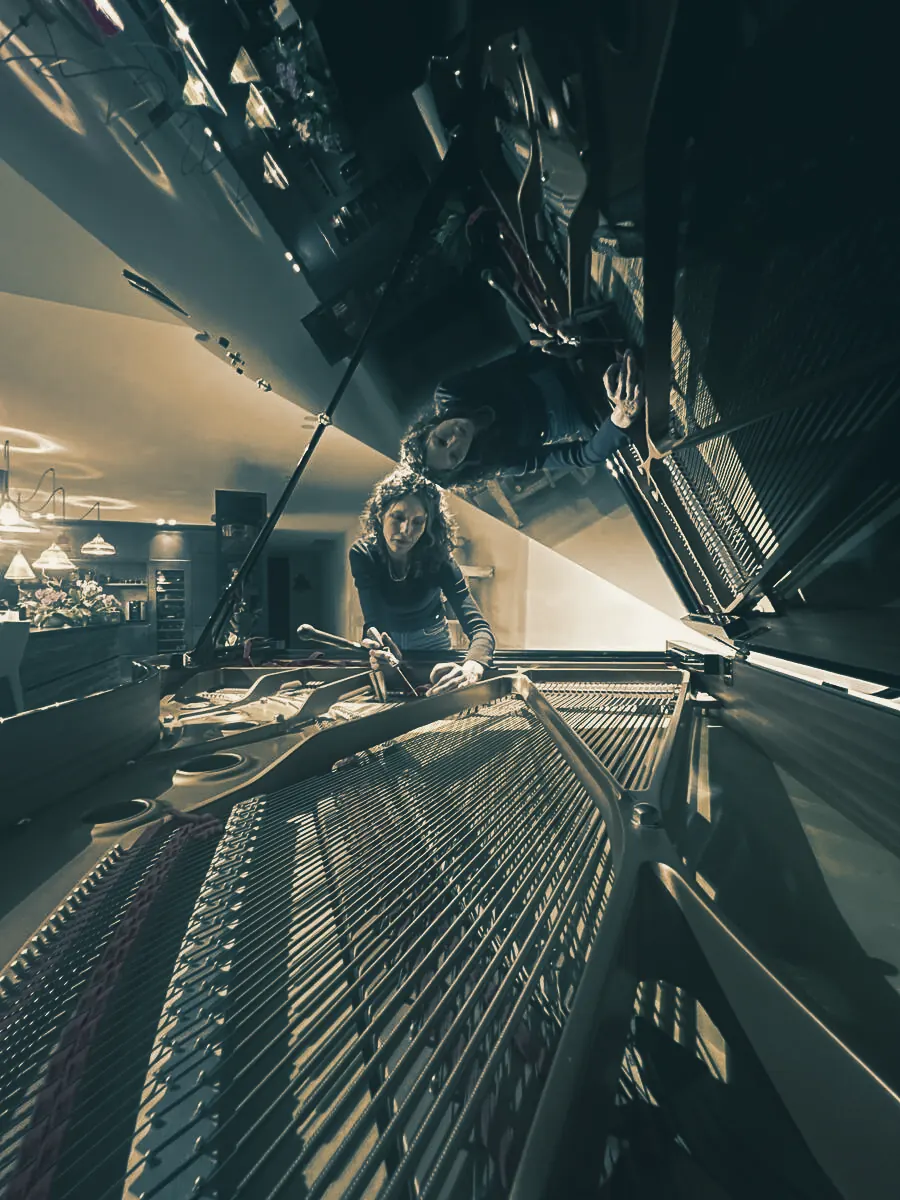
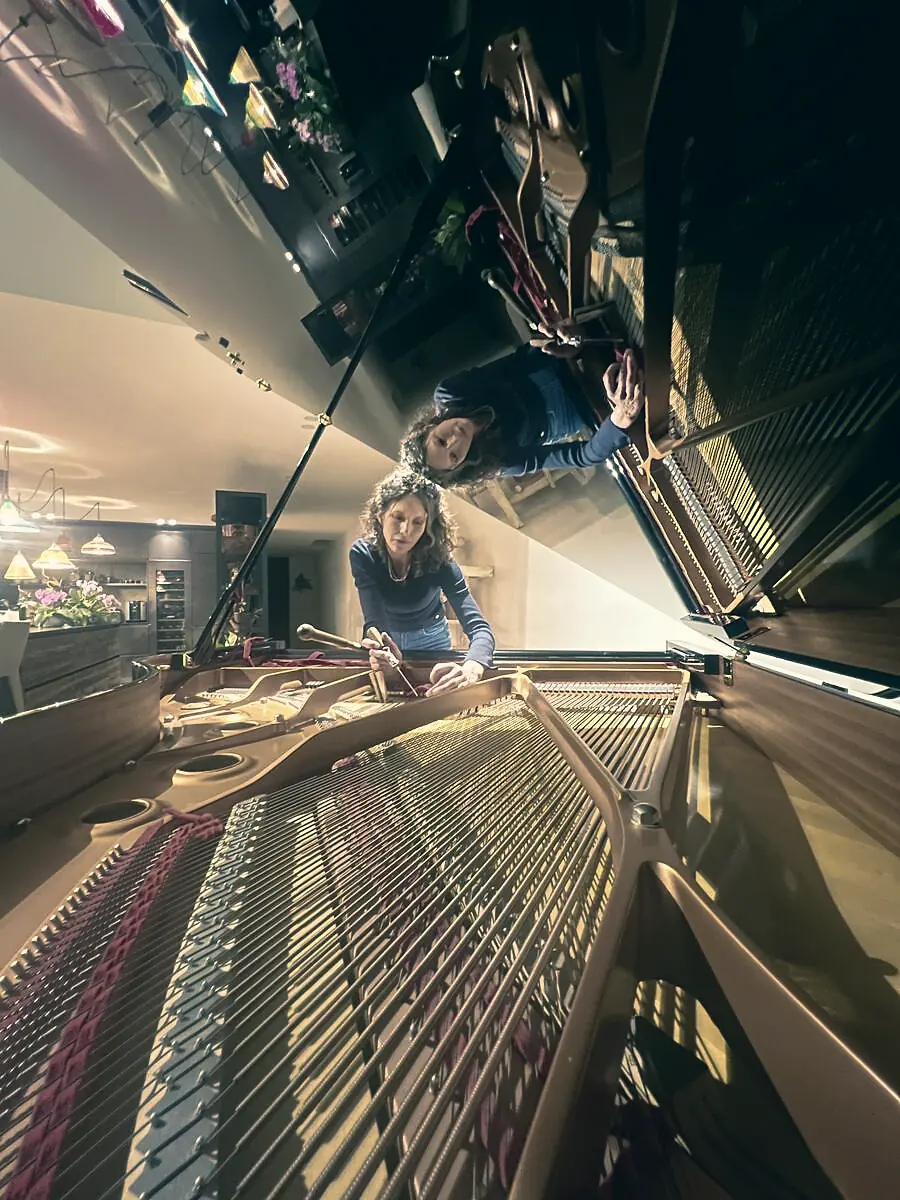
Photos plus claires et plus éclatantes (étalonnage v2) et voiles allégés, retour d'Alexandra du 20/11

diff --git a/assets/css/style.css b/assets/css/style.css
@@ -832,7 +832,8 @@ h1.surtitre { font-weight: 600; }
 .interlude--image { color: var(--sur-sombre); background: var(--nuit); min-height: 100vh; }
 .interlude__image { position: absolute; inset: 0; overflow: hidden; }
 .interlude__image img { width: 100%; height: 100%; object-fit: cover; will-change: transform; }
-.interlude__image::after { content: ""; position: absolute; inset: 0; background: radial-gradient(ellipse at center, rgba(24, 59, 66, .55), rgba(24, 59, 66, .78)); }
+/* 20/11 soir : voile allégé sur les bords (retour d'Alexandra « un peu sombre ») ; avant : .55 au centre, .78 sur les bords */
+.interlude__image::after { content: ""; position: absolute; inset: 0; background: radial-gradient(ellipse at center, rgba(24, 59, 66, .74) 0%, rgba(24, 59, 66, .58) 36%, rgba(24, 59, 66, .3) 100%); }
 
 /* =========================================================
    20/11 : TOUT le haut de page visible sans défiler (demande de Guillaume).
@@ -870,8 +871,9 @@ h1.surtitre { font-weight: 600; }
 .photo--plein::after {
   content: ""; position: absolute; inset: 0; pointer-events: none;
   background:
-    linear-gradient(90deg, rgba(24, 59, 66, .9) 0%, rgba(24, 59, 66, .66) 36%, rgba(24, 59, 66, .12) 68%, rgba(24, 59, 66, 0) 100%),
-    linear-gradient(0deg, rgba(24, 59, 66, .55) 0%, rgba(24, 59, 66, 0) 30%);
+    /* 20/11 soir : voile allégé (retour d'Alexandra « un peu sombre ») ; avant : .9 / .66 à 36 % / .12 à 68 % et .55 en bas */
+    linear-gradient(90deg, rgba(24, 59, 66, .86) 0%, rgba(24, 59, 66, .66) 36%, rgba(24, 59, 66, .4) 50%, rgba(24, 59, 66, .06) 68%, rgba(24, 59, 66, 0) 100%),
+    linear-gradient(0deg, rgba(24, 59, 66, .42) 0%, rgba(24, 59, 66, 0) 24%);
 }
 .hero--plein .hero__texte { position: relative; z-index: 1; }
 .hero--plein .surtitre, .hero--plein .chapo, .hero--plein .savoir-faire, .hero--plein .a-valider { color: var(--sur-sombre-doux); }
@@ -889,7 +891,8 @@ h1.surtitre { font-weight: 600; }
 }
 /* Essai plein écran, téléphone : le texte occupe toute la hauteur, le voile aussi */
 @media (max-width: 760px) {
-  .photo--plein::after { background: linear-gradient(0deg, rgba(24, 59, 66, .94) 0%, rgba(24, 59, 66, .78) 55%, rgba(24, 59, 66, .7) 100%); }
+  /* 20/11 soir : haut du voile allégé (avant : .78 à 55 % et .7 en haut) */
+  .photo--plein::after { background: linear-gradient(0deg, rgba(24, 59, 66, .92) 0%, rgba(24, 59, 66, .72) 52%, rgba(24, 59, 66, .48) 100%); }
 }
 
 /* 20/11 : son Instagram dans l'en-tête et le pied de page */
